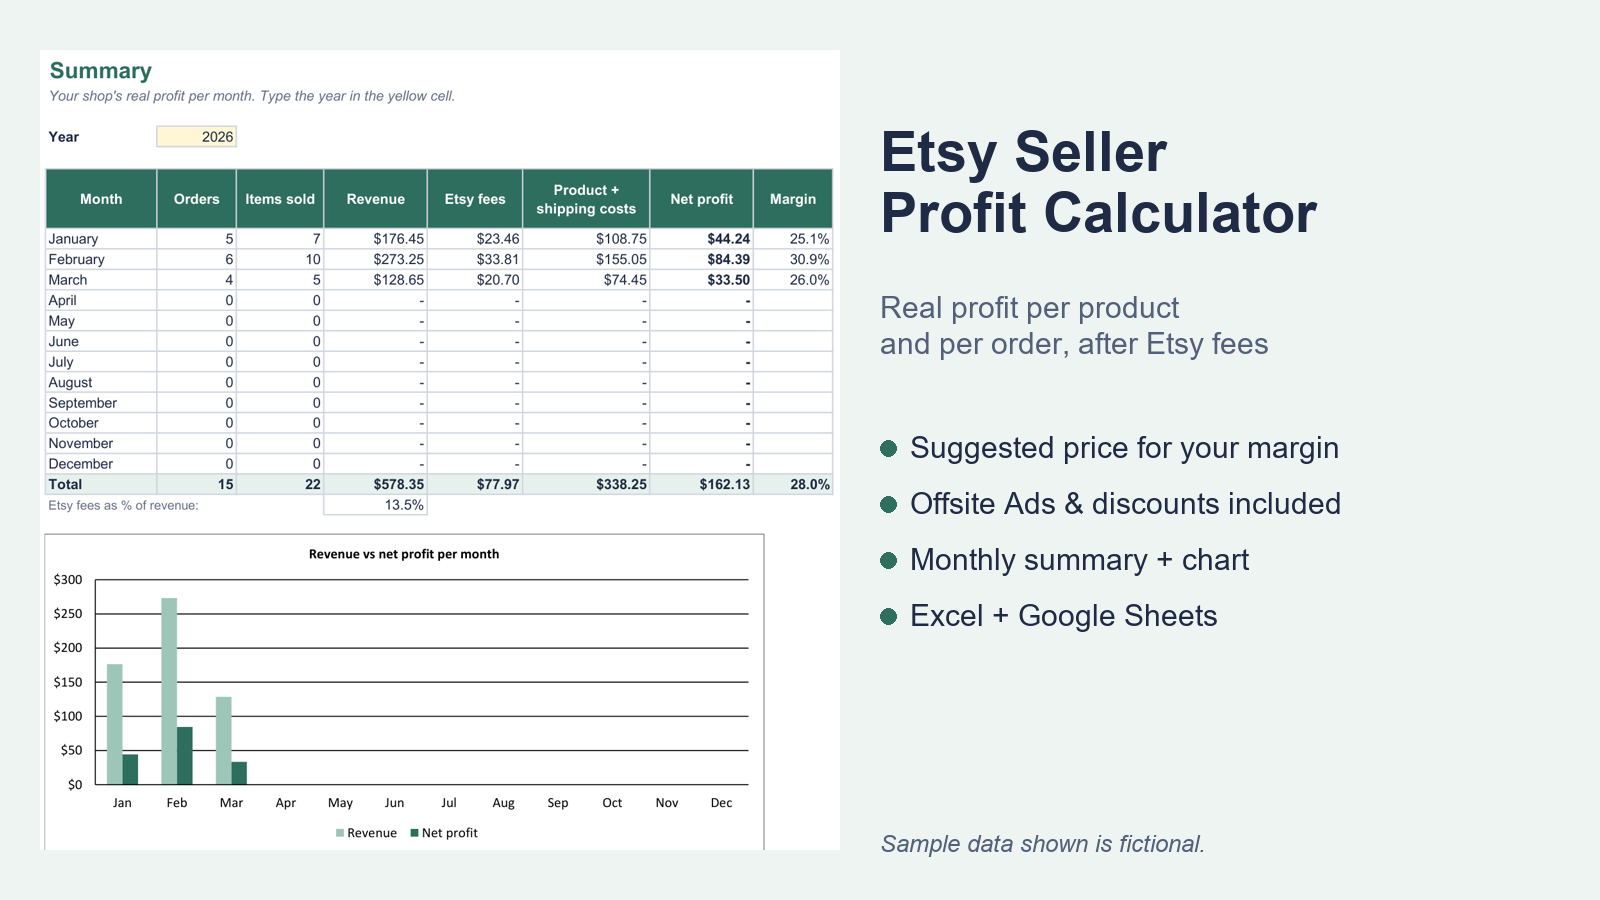
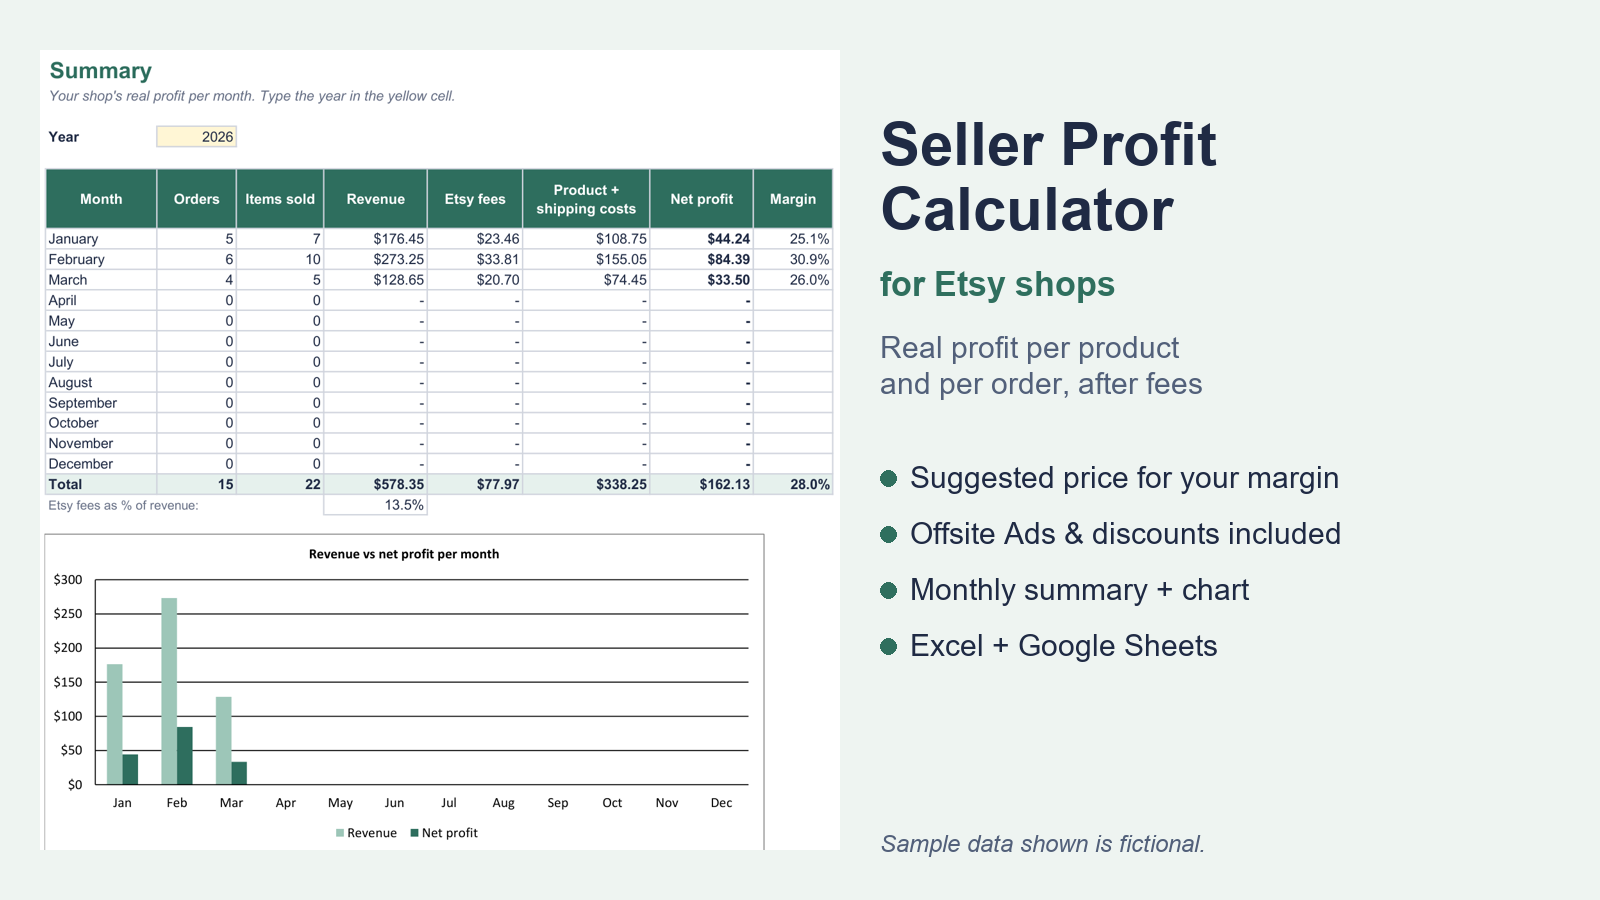
Template: data dari katalog ops, nama baru Profit Calculator, disclaimer merek Etsy

Changed region(s): [[0.5312, 0.4667, 0.8438, 0.7467], [0.5312, 0.1244, 0.8438, 0.28], [0.5312, 0.3111, 0.8125, 0.4356]]

diff --git a/src/pages/en/index.html b/src/pages/en/index.html
@@ -52,6 +52,7 @@ scripts: [/assets/js/home.js]
 <p class="lead rv">Spreadsheet templates I build and sell on Etsy. Type in a few cells, the formulas do the rest. Instant download, secure checkout on Etsy.</p>
 <div class="grid">{% for p in produk.tampil %}{{ template_card(p, "%.1fs" % (loop.index / 10)) }}{% endfor %}</div>
 {% if produk.toko %}<p class="rv"><a href="{{ produk.toko }}" target="_blank" rel="noopener">See all templates in my Etsy shop &rarr;</a></p>{% endif %}
+<p class="note">Etsy is a trademark of Etsy, Inc. These templates are not created or endorsed by Etsy, Inc.</p>
 </section>
 {%- endif %}
 

diff --git a/CLAUDE.md b/CLAUDE.md
@@ -7,7 +7,7 @@ Website Kemang Data. Halaman dirakit oleh `build.py` (Python + Jinja2) ke `_site
 ```
 src/pages/        isi tiap halaman; path file = URL (src/pages/en/index.html -> /en/)
 src/layouts/      base.html (kerangka <head>, script) + macros.html (header, wa(), plan_card, lightbox, ...)
-src/data/         site.yml (WA, email, link) + paket.yml (HARGA, satu-satunya sumber) + produk.yml (template Etsy, tampil kalau link Etsy diisi)
+src/data/         site.yml (WA, email, link) + paket.yml (HARGA, satu-satunya sumber) + produk.yml (template Etsy, DIBUAT OTOMATIS dari repo ops: `python produk/kd.py katalog`, jangan diedit manual)
 assets/css/       style.css (dikelompokkan per bagian, lihat komentar di atasnya)
 assets/js/        theme.js (mode gelap + header), home.js (animasi halaman utama), case.js (tab gambar + layar penuh)
 assets/img/       semua gambar

diff --git a/CHANGELOG.md b/CHANGELOG.md
@@ -3,7 +3,7 @@
 Paling baru di atas. Satu baris per PR.
 
 ## 2026-11-24
-- PR: Bagian "Ready-made templates" di /en/ (Monthly Budget Planner + Etsy Seller Profit Calculator, checkout langsung ke Etsy). Data di `src/data/produk.yml`; produk baru tampil setelah link Etsy diisi.
+- PR: Bagian "Ready-made templates" di /en/ (checkout langsung ke Etsy + disclaimer merek Etsy). `src/data/produk.yml` dibuat otomatis dari katalog produk di repo ops (`python produk/kd.py katalog`); hanya produk berstatus live + ada link Etsy yang tampil.
 
 ## 2026-11-21
 - PR #8: File verifikasi Google Search Console (`static/googlefdbe962ee824253f.html`). Jangan dihapus, atau verifikasi Google akan hilang.
